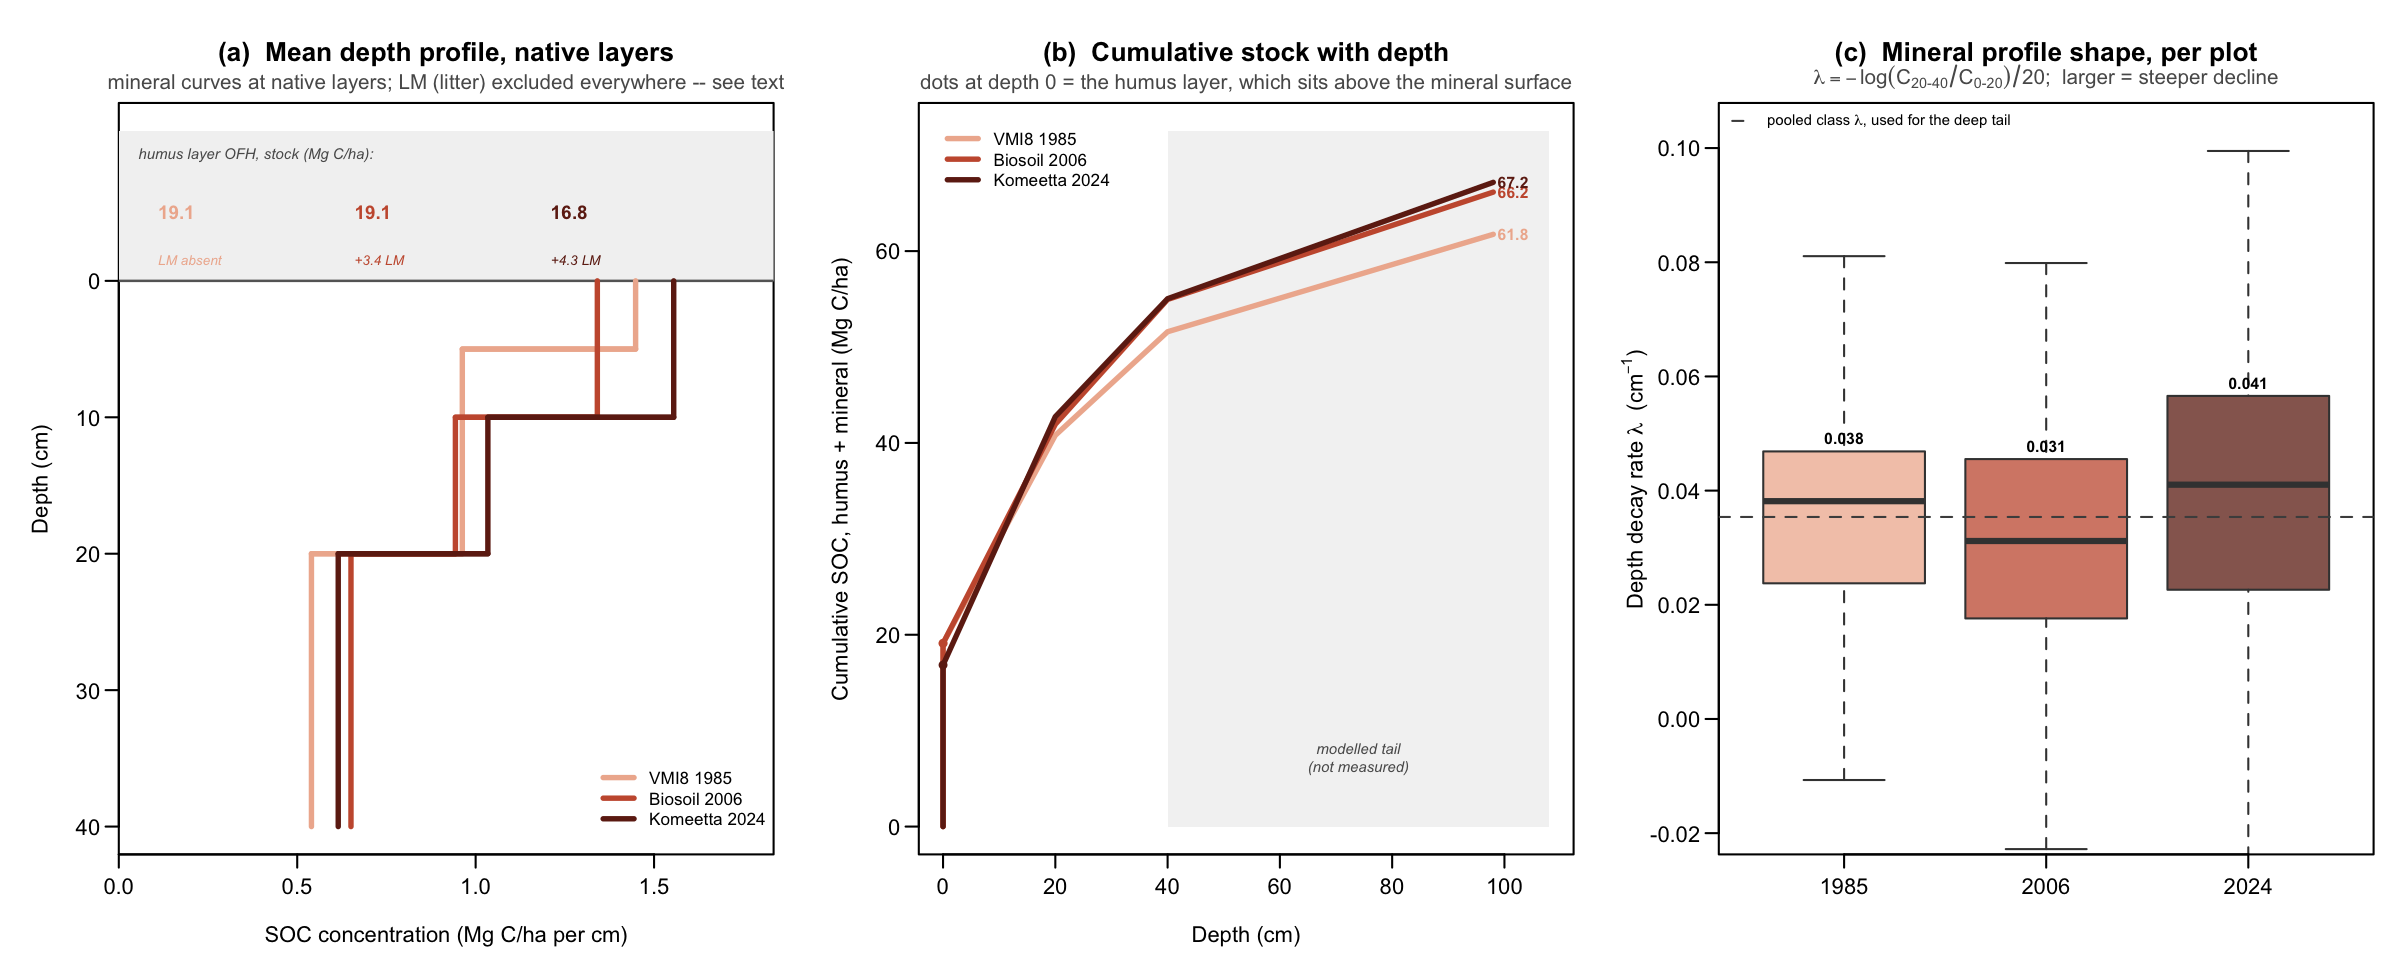
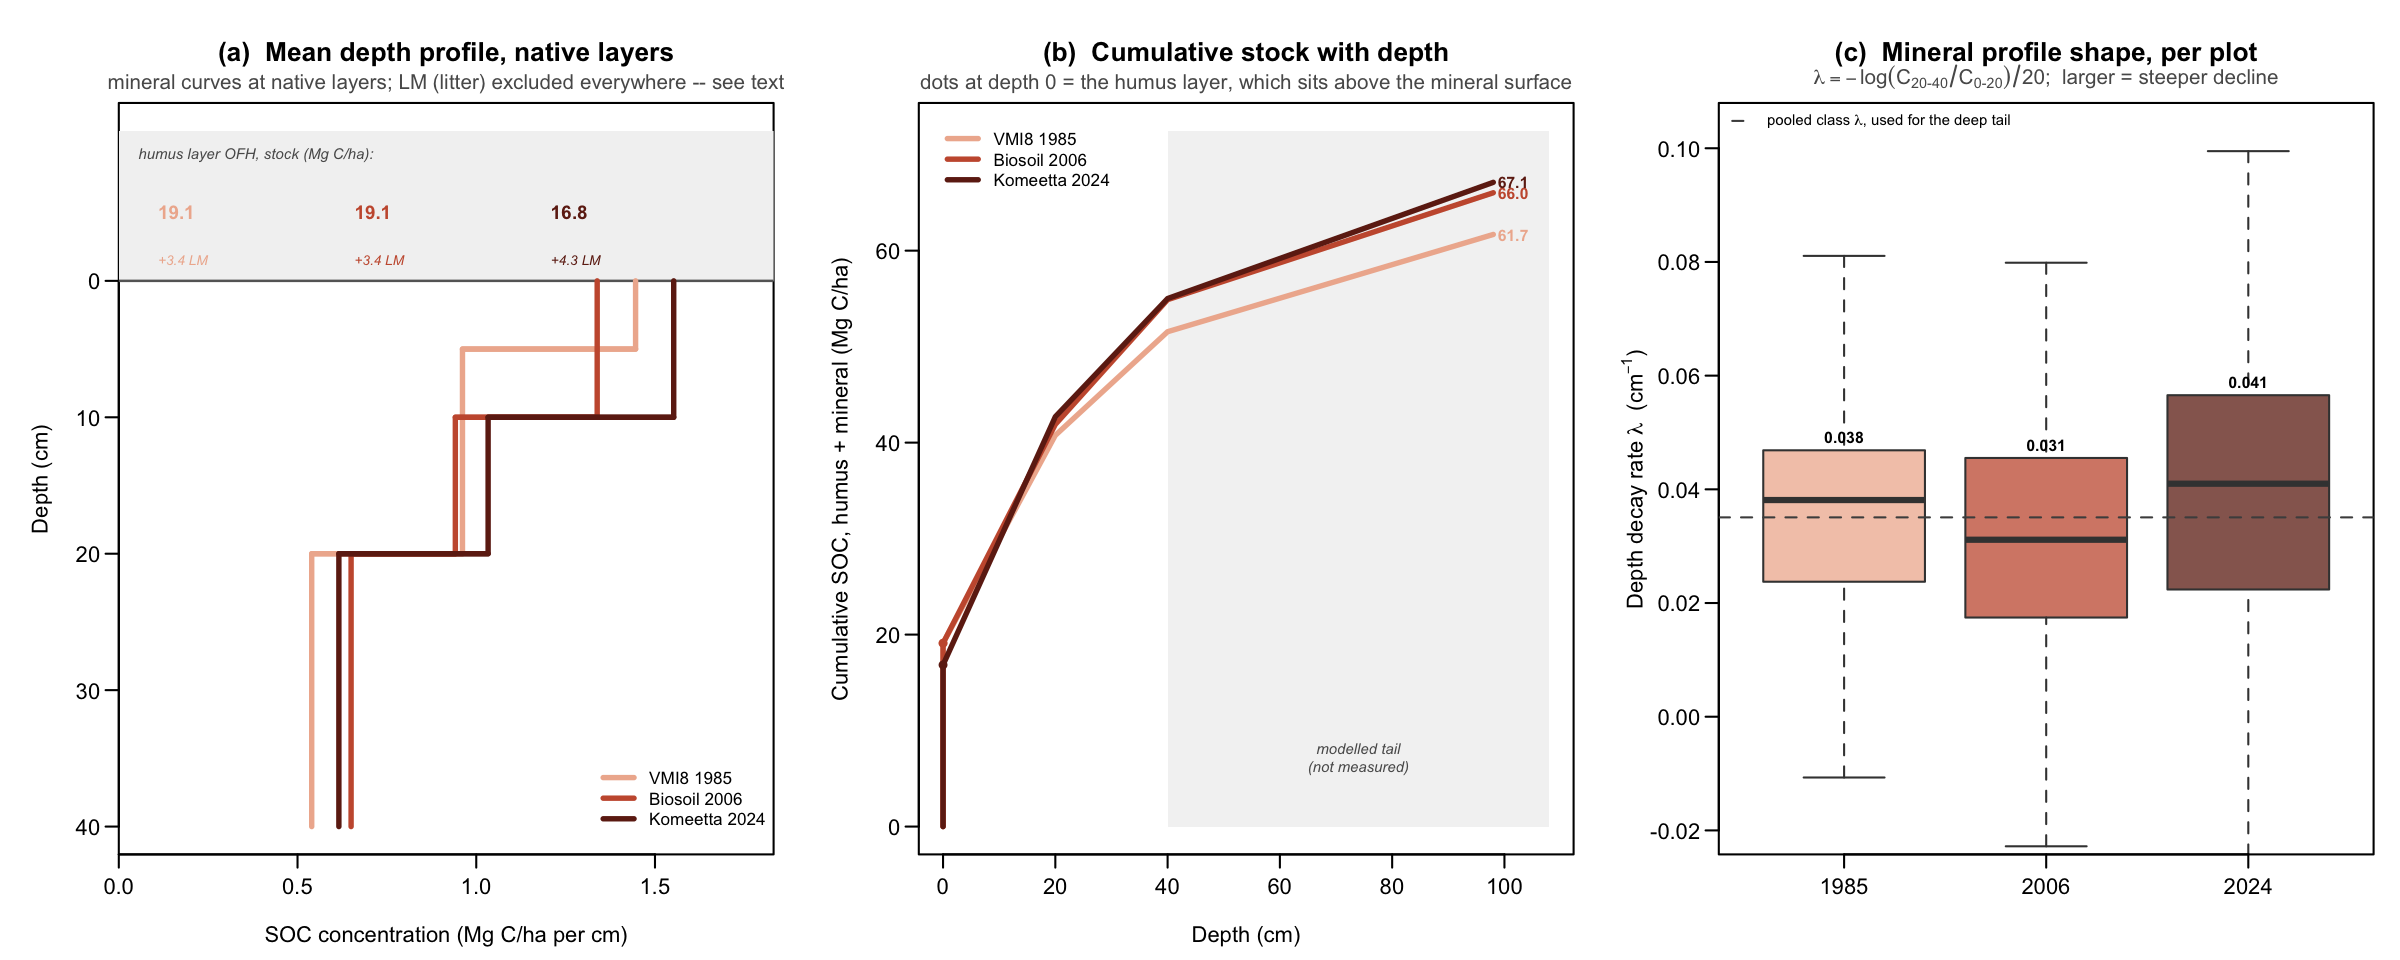
Appendix figures and the basis table on the corrected target
S8/S9/S10 needed a correctness fix, not just a rebuild. The baseline now applies
treatment C, so the 1985 organic layer CONTAINS the imputed LM; these scripts were
written when it did not, and treated 1985 organic as OFH. Left alone they would have
reported the 1985 humus as including litter, inverting the very comparison they
exist to make. OFH is now recovered via lm_added_1985 (kg/ha, 0 for 2006/2024) and
returns 19.11 / 19.10 / 16.84 — identical to the pre-treatment values, which is the
check that the recovery is exact.

observed_soc_basis.R now uses the TRUE mean intervals (17.1 / 18 / 35.1 yr) computed
from samp_year, rather than the nominal 39 / 21 / 18 which overstated every interval
by 11%.

Observed rates on the corrected target (balanced, unweighted, whole profile):
1985->2006 +0.368, 2006->2024 +0.147, 1985->2024 +0.254. The 2006-2024 window barely
moved, as it must: no 1985 correction can reach it.

NOT rebuilt: F2/F3/F4 and appendix_delta_reconciliation. Their posterior bundles come
from the old target, so rebuilding now would compare old models against new
observations. They wait for the re-run.

diff --git a/NEXT_SESSION.md b/NEXT_SESSION.md
@@ -55,7 +55,36 @@ diagnostic, then do the data fixes, then one re-run.
 
 ---
 
-## 0c. THE IMPLEMENTATION — decided 2026-08-12, execute after the run above is read
+## 0c. THE IMPLEMENTATION — ✅ EXECUTED 2026-08-12 (commit `8ef5c62`)
+
+> **STATUS: the code and the data are DONE. What remains is the calibration re-run.**
+> Revert point: `3a143cd` (analysis only, target untouched).
+>
+> Done: treatment C (1985 profile 63.27 → 66.27, 2006/2024 bit-identical, official
+> validation still exact); true sampling years wired end-to-end (`samp_year` →
+> `obs_year` → `soc_obs_year`, indexed by all six calibration scripts); 82 undated
+> 1985 plot-years dropped; `SIGMA_1985_INFL = 2.0` pre-registered; `Data_work.R`
+> re-run clean (456 calib-ready, 1205 observations, median target 64.9);
+> `Data_work.R` and `build_soc_homogenized.R` brought under version control at last.
+>
+> **Local Yasso15 f-sweep launched 2026-08-12 evening**
+> (`doublechecks/ablation_logs/Yasso15_SUITE_20260812.log`, 4 configs × ~70–90 min).
+> ⚠ Run `doublechecks/quarantine_ablation_runs.R` when it finishes, or `run_ids.R`
+> will pick a 3×6000 short chain as production.
+>
+> ⚠ **Figures: only the observation-only ones were regenerated** (S8/S9/S10, and they
+> needed a fix — the baseline now *contains* the imputed LM, so OFH is recovered via
+> `lm_added_1985`; without it the 1985 "humus" would have silently included litter).
+> **F2/F3/F4 and appendix_delta_reconciliation were deliberately NOT rebuilt**: their
+> posterior bundles come from the old target, so they would compare old models against
+> the new observations. Rebuild them only after the re-run.
+>
+> Observed rates on the corrected target, balanced/unweighted/whole profile, true mean
+> intervals (17.1 / 18 / 35.1 yr): 1985→2006 **+0.368**, 2006→2024 **+0.147**,
+> 1985→2024 **+0.254** (was +0.312 on the old target and nominal intervals).
+> 2006→2024 barely moved, as it must — no 1985 fix can reach that window.
+
+### Original plan, retained as the record of what was decided
 
 Full findings: `manuscript/HIKET_discussion_memo.tex`, memories
 [[soc-campaign-comparability]] and [[kramarenko-thesis-vmi8-biosoil]], scripts
